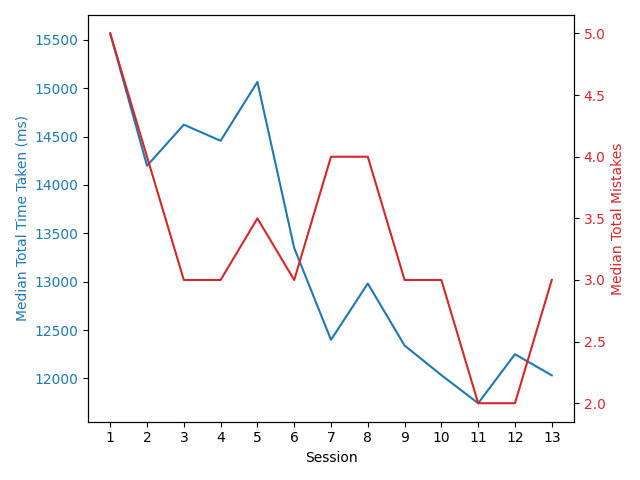
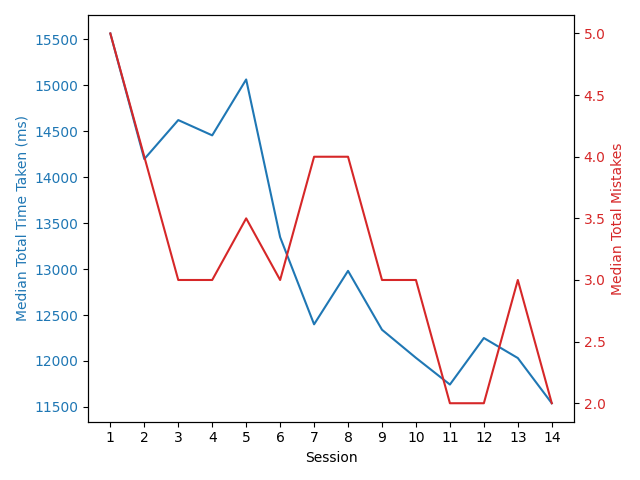
Session 14

diff --git a/analysis/generate_session_data.py b/analysis/generate_session_data.py
@@ -6,7 +6,7 @@ from generate_lm import generate_lm
 from generate_rolling import generate_rolling
 
 
-session_ID = "13"
+session_ID = "14"
 
 localStorage_to_raw(session_ID)
 raw_to_session(session_ID)

diff --git a/analysis/generate_agg_data.py b/analysis/generate_agg_data.py
@@ -103,7 +103,7 @@ def generate_agg_data(sessions):
     print("Aggregate data generated successfully.")
 
 
-upr = 14
+upr = 15
 
 generate_agg_data([str(i) for i in range(1, upr)])
 generate_lm(
